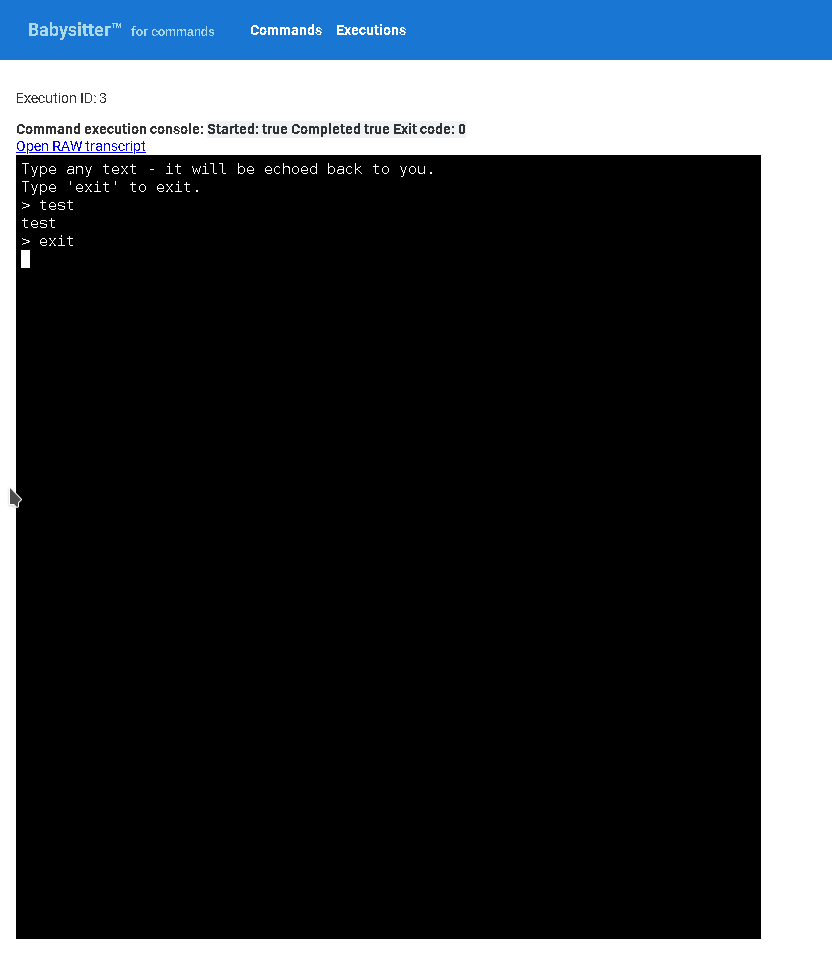
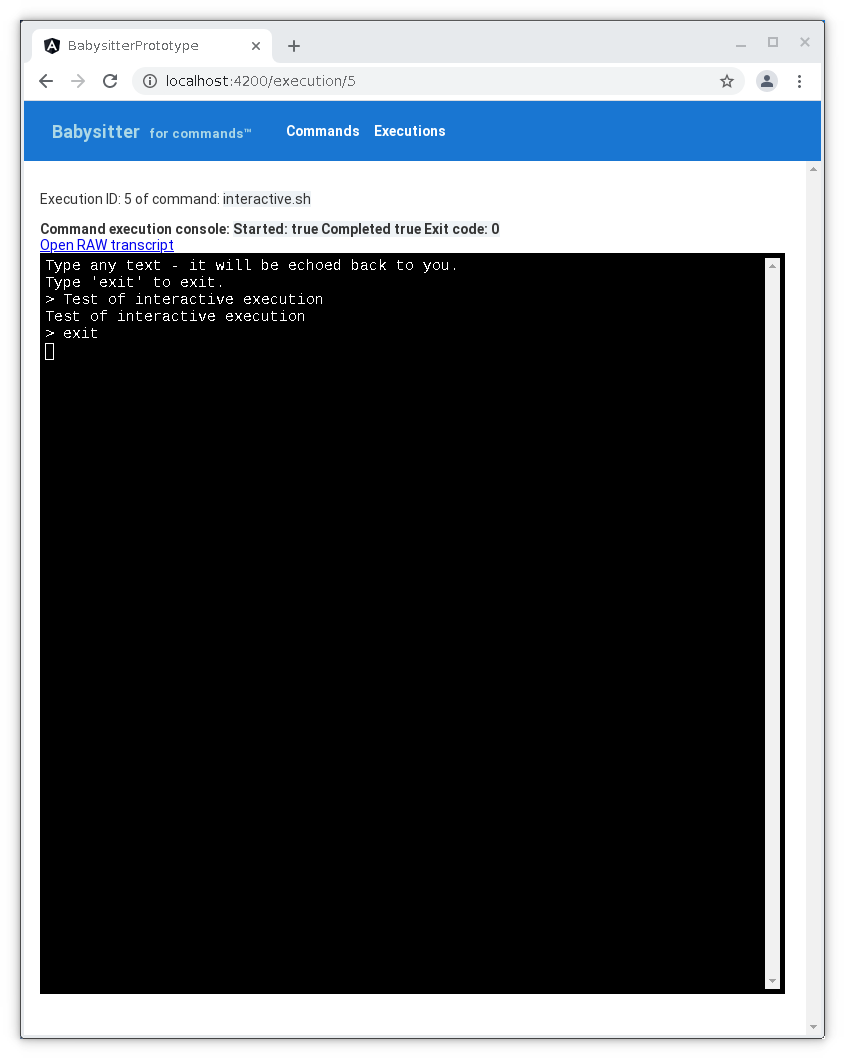
Updated README.md and screenshots

Changed region(s): [[0.0, 0.0, 1.0, 0.9969]]

diff --git a/README.md b/README.md
@@ -1,14 +1,32 @@
-# BabySitter
+# BabySitter prototype
 
-Run bash scripts or other programs via a web interface and babysit their execution.
+NOTE: This is a prototype project to explore an idea. It's not production quality, does not represent best practices and
+has known bugs.
+
+The idea is to have the simplest possible way, via a web app, for both:
+* Admins to provide scripts for various maintenance and other chores for infrastructure side of e.g. project resources 
+  or machine resources (such as providing CI/CD API keys), restrict who can run what and view audit logs of who ran what.
+* Users to run those scripts when they need them, without having to deal with SSH, servers, etc.
+
+Everything that's planned for it to do can be done with existing tools: `ssh`, `sudo`, `tmux`, but setting up and 
+maintaining configuration them with consistent security is time-consuming and error-prone.
+
+The most important parts - permissions and parameters - are not implemented yet.
+
+## UI
+
+Run bash scripts or other programs via a web interface and "babysit" their execution.
 
 ![screenshot-commands.png](doc%2Fimages%2Fscreenshot-commands.png)
 
-Allows interaction with scripts via web-based terminal emulator (xterm.js). Scripts can be
-local on the same server as the backend app (**babysitter-server-prototype**) or remote on a different 
-server, run via SSH.
+Allows interaction with scripts via web-based terminal emulator (xterm.js). 
 
 ![screenshot-execution.png](doc%2Fimages%2Fscreenshot-execution.png)
+
+The link to session can be sent to other user, which can continue the session (session sharing not yet supported).
+
+Commands are currently supported as local executables on the same server as the backend app 
+(**babysitter-server-prototype**) or remote on a different server, run via SSH.
 
 ## Run in development environment
 
@@ -17,7 +35,7 @@ Open in IntelliJ IDEA and run:
 * **babysitter-prototype** as an Angular CLI application
 
 To test running scripts via SSH:
-* Run `vagrant up` in the **dev-vms/test-target-vm** directory.
+* Run `vagrant up` in the **dev-vms/test-target-vm** directory before running the **babysitter-prototype** project.
  
   Starts up a test target VM with scripts to be run over SSH. Requires Linux and configured libvirt provider.
 
